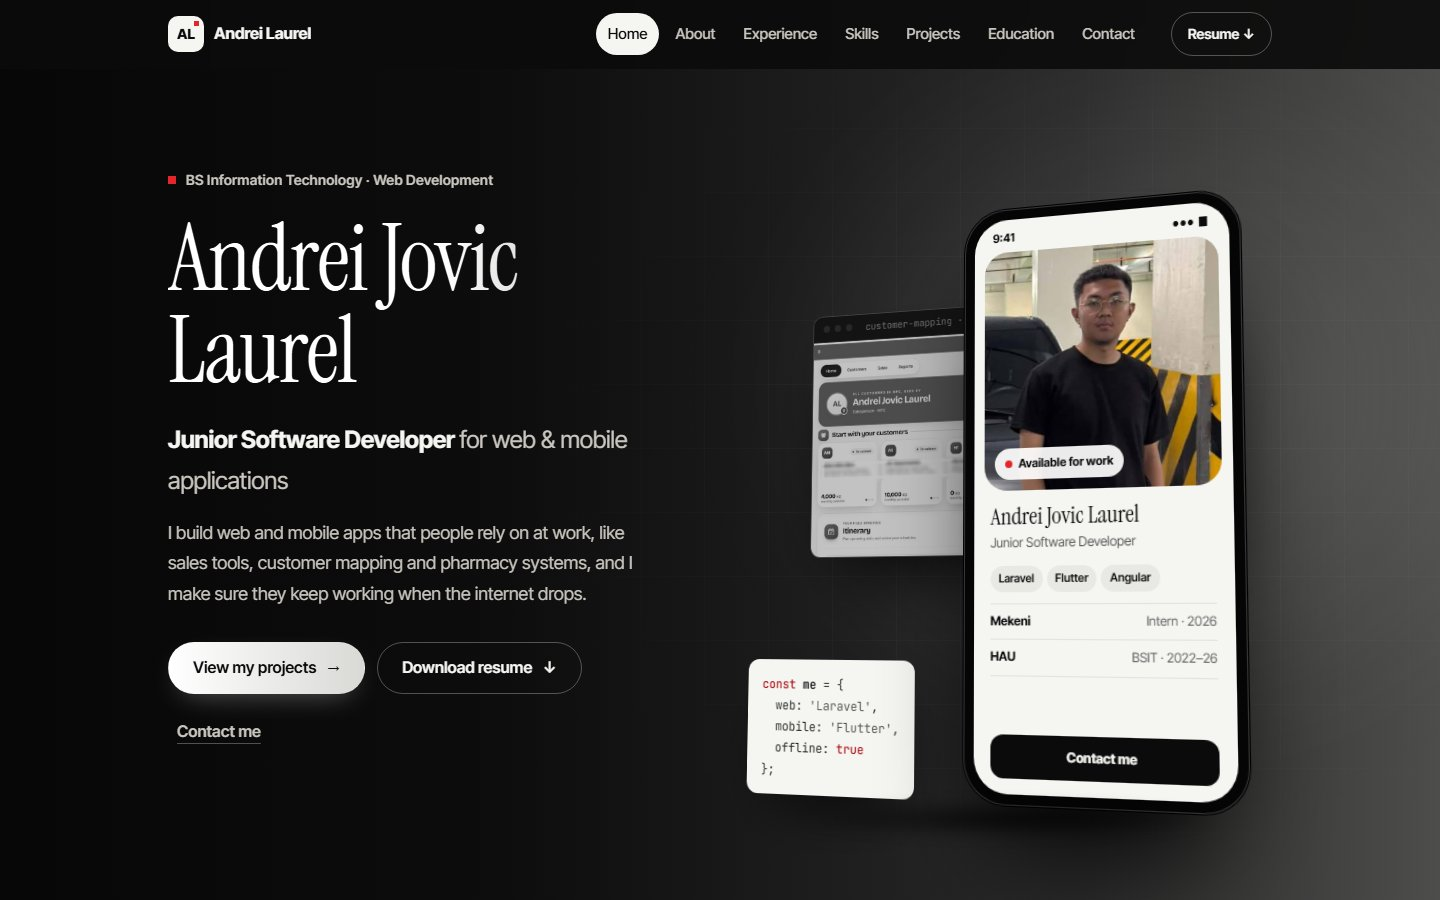
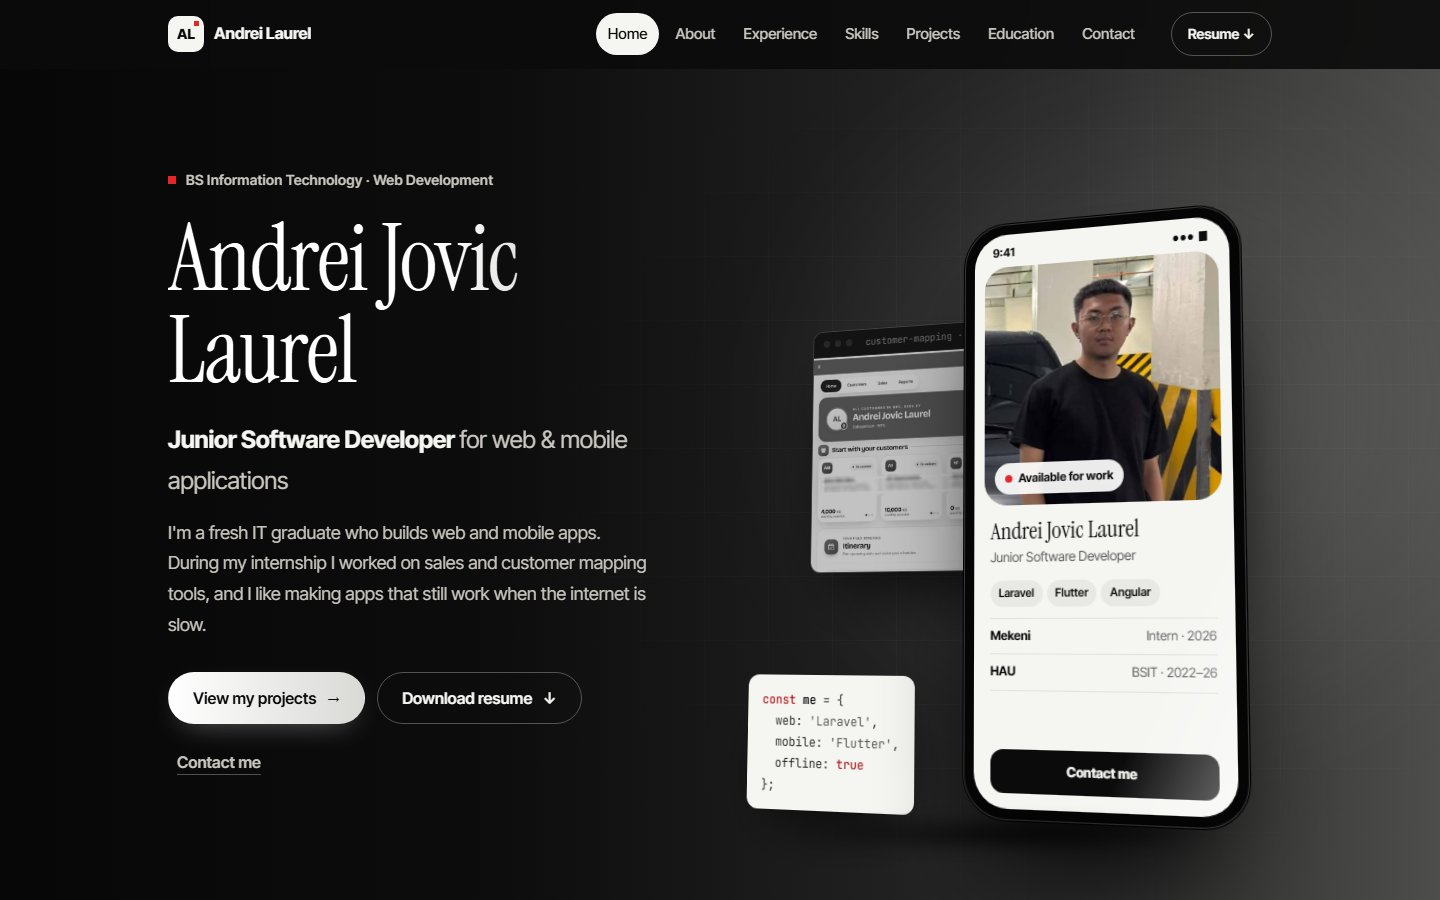
Simplify site and README wording
Rewrite copy in a plain first-person voice without colons or em dashes, and refresh the README screenshot.

Changed region(s): [[0.5625, 0.1867, 0.875, 0.7778], [0.0938, 0.56, 0.4688, 0.8711], [0.5, 0.7156, 0.875, 0.9333]]

diff --git a/index.html b/index.html
@@ -3,13 +3,13 @@
 <head>
 <meta charset="UTF-8" />
 <meta name="viewport" content="width=device-width, initial-scale=1" />
-<title>Andrei Jovic Laurel — Junior Software Developer</title>
+<title>Andrei Jovic Laurel | Junior Software Developer</title>
 <meta name="description" content="Andrei Jovic Laurel is a junior software developer from Pampanga, Philippines, building web and mobile applications with Laravel, Flutter, Angular and Node.js." />
 <meta name="author" content="Andrei Jovic Laurel" />
 <meta name="theme-color" content="#0b0b0b" />
 <link rel="canonical" href="https://laurelportfolio.netlify.app/" />
 <meta property="og:type" content="website" />
-<meta property="og:title" content="Andrei Jovic Laurel — Junior Software Developer" />
+<meta property="og:title" content="Andrei Jovic Laurel | Junior Software Developer" />
 <meta property="og:description" content="Web and mobile application developer. Laravel, Flutter, Angular, Node.js." />
 <meta property="og:url" content="https://laurelportfolio.netlify.app/" />
 <meta property="og:image" content="https://laurelportfolio.netlify.app/images/profile/andrei-laurel-phone.jpg" />
@@ -59,7 +59,7 @@
       <h1 class="hero__name reveal">Andrei Jovic Laurel</h1>
       <p class="hero__role reveal">Junior Software Developer <span>for web &amp; mobile applications</span></p>
       <p class="hero__lead reveal">
-        I build web and mobile apps that people rely on at work, like sales tools, customer mapping and pharmacy systems, and I make sure they keep working when the internet drops.
+        I'm a fresh IT graduate who builds web and mobile apps. During my internship I worked on sales and customer mapping tools, and I like making apps that still work when the internet is slow.
       </p>
       <div class="hero__actions reveal">
         <a href="#projects" class="btn btn--solid">View my projects <span aria-hidden="true">→</span></a>
@@ -128,7 +128,7 @@
     </header>
     <div class="about">
       <p class="about__lead" data-words data-scroll>
-        I'm a junior software developer who likes the practical side of software: features that make a real workflow easier, interfaces people can figure out quickly, and systems that keep working when the connection doesn't.
+        I'm a fresh graduate and junior software developer. I enjoy building features that make daily work easier, screens that are simple to use, and apps that keep working even without a stable connection.
       </p>
       <div class="journey-wrap">
         <p class="journey__label">My journey</p>
@@ -136,14 +136,14 @@
         <li class="journey__step"><span class="journey__dot" aria-hidden="true"></span><span class="journey__when">2022</span><b>Started BSIT</b><span class="journey__sub">Web Development major at Holy Angel University</span></li>
         <li class="journey__step"><span class="journey__dot" aria-hidden="true"></span><span class="journey__when">Jan – Apr 2025</span><b>Owens Bakery</b><span class="journey__sub">Built and maintained a WordPress business site</span></li>
         <li class="journey__step"><span class="journey__dot" aria-hidden="true"></span><span class="journey__when">Nov 2025 – Mar 2026</span><b>MedFind</b><span class="journey__sub">Front-end developer and primary debugger</span></li>
-        <li class="journey__step"><span class="journey__dot" aria-hidden="true"></span><span class="journey__when">Aug – Nov 2026</span><b>Mekeni ICT</b><span class="journey__sub">Software Development Intern: Laravel, AngularJS, Flutter</span></li>
+        <li class="journey__step"><span class="journey__dot" aria-hidden="true"></span><span class="journey__when">Aug – Nov 2026</span><b>Mekeni ICT</b><span class="journey__sub">Software Development Intern using Laravel, AngularJS and Flutter</span></li>
         <li class="journey__step journey__step--now"><span class="journey__dot" aria-hidden="true"></span><span class="journey__when">2026</span><b>BSIT graduate</b><span class="journey__sub">Ready for a junior developer role</span></li>
         </ol>
       </div>
       <dl class="about__points reveal">
-        <div data-tilt="8"><dt>I build</dt><dd>User interfaces, application features and API integrations</dd></div>
-        <div data-tilt="8"><dt>I work</dt><dd>As part of a development team on existing business systems</dd></div>
-        <div data-tilt="8"><dt>I care about</dt><dd>Reliable, usable software: offline support, validation, testing</dd></div>
+        <div data-tilt="8"><dt>I build</dt><dd>User interfaces, app features and API connections</dd></div>
+        <div data-tilt="8"><dt>I work</dt><dd>With a development team on real business systems</dd></div>
+        <div data-tilt="8"><dt>I care about</dt><dd>Apps that are reliable and easy to use, with offline support, validation and testing</dd></div>
       </dl>
       <p class="swipe-hint" aria-hidden="true">Swipe for more →</p>
     </div>
@@ -168,15 +168,15 @@
         <h3 class="xp__role">Software Development Intern</h3>
         <p class="xp__sub">Web &amp; mobile application development</p>
         <p class="xp__intro">
-          Worked with the ICT software development team on Mekeni's internal business applications. The systems are team efforts; below is what I worked on.
+          I worked with the ICT software development team on Mekeni's internal business applications. These systems were built by the whole team, and below are the parts I worked on.
         </p>
         <ol class="xp__list" data-scroll>
           <li><span>Built and improved features in internal business web applications using <strong>Laravel, PHP, JavaScript, AngularJS and Blade</strong>.</span></li>
           <li><span>Implemented responsive user interfaces, form validation, search and filtering, and business workflow improvements.</span></li>
-          <li><span>Initiated the <strong>Mekeni Sales</strong> mobile app in <strong>Flutter and Dart</strong> and built its initial structure, navigation and main dashboard.</span></li>
+          <li><span>Started the <strong>Mekeni Sales</strong> mobile app in <strong>Flutter and Dart</strong> and built its first structure, navigation and main dashboard.</span></li>
           <li><span>Integrated the mobile app with existing APIs and built sales order features with offline saving and automatic sync, plus Employee Portal features.</span></li>
           <li><span>Worked on data processing, including improvements to the STT data import used for sales monitoring.</span></li>
-          <li><span>Took part in functional testing, debugging and verification to improve usability and reliability.</span></li>
+          <li><span>Helped with testing and debugging to make the apps easier to use and more reliable.</span></li>
         </ol>
         <ul class="tags" aria-label="Technologies">
           <li>Laravel</li><li>PHP</li><li>Blade</li><li>AngularJS</li><li>JavaScript</li><li>Flutter</li><li>Dart</li><li>REST APIs</li>
@@ -223,12 +223,12 @@
           <h3 class="story__title reveal">Mekeni Sales</h3>
           <p class="story__kicker reveal">Mobile application · Flutter</p>
           <p class="story__desc reveal">
-            One mobile app for Mekeni staff: a dashboard of company applications, sales order creation and monitoring, and an Employee Portal for personal records. Orders can be prepared on the device and synced to Mekeni's systems.
+            A mobile app for Mekeni staff with a dashboard of company applications, sales order creation and monitoring, and an Employee Portal for personal records. Orders can be prepared on the phone and synced to Mekeni's systems later.
           </p>
         </div>
         <div>
           <dl class="facts reveal">
-            <div><dt>My role</dt><dd>Initiated the app and built its first implementation (structure, navigation, main dashboard) as part of the ICT team, then sales order and Employee Portal features.</dd></div>
+            <div><dt>My role</dt><dd>I started the app and built its first version with the ICT team, including the structure, navigation and main dashboard. I then worked on the sales order and Employee Portal features.</dd></div>
           </dl>
           <ul class="tags reveal"><li>Flutter</li><li>Dart</li><li>REST APIs</li></ul>
         </div>
@@ -238,11 +238,11 @@
         <figure class="phone-col reveal">
           <figcaption><b>Dashboard</b><span>Company apps and modules</span></figcaption>
           <div class="phone" data-gallery="ms-dash">
-            <img src="images/projects/mekeni-sales/app-list.jpg" alt="Mekeni mobile app: application list dashboard" width="600" height="1196" loading="lazy" data-gallery-target />
+            <img src="images/projects/mekeni-sales/app-list.jpg" alt="Mekeni mobile app application list" width="600" height="1196" loading="lazy" data-gallery-target />
           </div>
           <div class="seg" role="tablist" aria-label="Dashboard screens" data-gallery-for="ms-dash">
-            <button role="tab" aria-selected="true" data-src="images/projects/mekeni-sales/app-list.jpg" data-alt="Mekeni mobile app: application list dashboard">App list</button>
-            <button role="tab" aria-selected="false" data-src="images/projects/mekeni-sales/more-apps.jpg" data-alt="All applications, with coming-soon modules">Modules</button>
+            <button role="tab" aria-selected="true" data-src="images/projects/mekeni-sales/app-list.jpg" data-alt="Mekeni mobile app application list">App list</button>
+            <button role="tab" aria-selected="false" data-src="images/projects/mekeni-sales/more-apps.jpg" data-alt="All applications and upcoming modules">Modules</button>
             <button role="tab" aria-selected="false" data-src="images/projects/mekeni-sales/sis-modules.jpg" data-alt="Sales Information System modules">SIS</button>
           </div>
         </figure>
@@ -293,7 +293,7 @@
         </div>
         <div>
           <dl class="facts reveal">
-            <div><dt>My role</dt><dd>Initiated the project and contributed to building it with the team, developing the customer, map, itinerary and sales monitoring features.</dd></div>
+            <div><dt>My role</dt><dd>I started the project and helped the team build it. I worked on the customer, map, itinerary and sales monitoring features.</dd></div>
           </dl>
           <ul class="tags reveal"><li>Laravel</li><li>JavaScript</li><li>AngularJS</li></ul>
         </div>
@@ -337,7 +337,7 @@
           <p class="story__kicker">Mother &amp; Child Pharmacy System</p>
           <p class="card__desc">A pharmacy system with a medicine finder, inventory management, point of sale and pre-orders.</p>
           <dl class="facts">
-            <div><dt>My role</dt><dd>Front-end developer and primary debugger: designed, built, tested and troubleshot the system interface.</dd></div>
+            <div><dt>My role</dt><dd>I was the front-end developer and main debugger. I designed, built, tested and fixed the system interface.</dd></div>
           </dl>
           <ul class="checks">
             <li>Medicine finder, inventory, POS and pre-order modules</li>
@@ -359,7 +359,7 @@
           <p class="story__kicker">Business website · WordPress</p>
           <p class="card__desc">A business website I developed and maintained, from page creation and content updates to responsive design and SEO.</p>
           <dl class="facts">
-            <div><dt>My role</dt><dd>Built and maintained the site, implemented SEO improvements and monitored performance.</dd></div>
+            <div><dt>My role</dt><dd>I built and maintained the site, improved its SEO and tracked how it performed.</dd></div>
           </dl>
           <ul class="checks">
             <li>Responsive pages and ongoing content updates</li>
@@ -416,7 +416,7 @@
     </header>
     <div class="contact__grid">
       <div>
-        <p class="contact__lead reveal">Hiring for a junior developer role, or have a project in mind? Send me a message or reach me directly.</p>
+        <p class="contact__lead reveal">I'm looking for my first full-time role as a junior developer. If you have an opening or a project in mind, send me a message.</p>
         <dl class="contact__list reveal">
           <div><dt>Email</dt><dd><a href="mailto:andrei.laurel.3@gmail.com">andrei.laurel.3@gmail.com</a></dd></div>
           <div><dt>Phone</dt><dd><a href="tel:+639054424644">0905 442 4644</a></dd></div>

diff --git a/README.md b/README.md
@@ -1,43 +1,42 @@
-# Andrei Jovic Laurel — Portfolio
+# Andrei Jovic Laurel | Portfolio
 
-Personal portfolio of **Andrei Jovic Laurel**, a junior software developer building web and mobile applications.
-BS Information Technology graduate (Web Development), Holy Angel University.
+This is my personal portfolio. I'm a fresh BS Information Technology graduate from Holy Angel University, majoring in Web Development, and I build web and mobile applications.
 
-**Live site:** https://laurelportfolio.netlify.app/
+**Live site** https://laurelportfolio.netlify.app/
 
-![Portfolio hero: name, role and a 3D scene of a web dashboard and a phone profile](docs/hero.jpg)
+![Portfolio home section with my name, role and a 3D web and phone scene](docs/hero.jpg)
 
 ## What's inside
 
-| Section | Contents |
+| Section | What you'll find |
 | --- | --- |
-| **Home** | Introduction and a 3D web-and-mobile scene with my profile on a phone |
-| **About** | Background, studies and what I focus on as a developer |
-| **Experience** | Software Development Intern, Mekeni ICT Department (Aug – Nov 2026) |
-| **Skills** | Languages, web, mobile, backend, data and tools |
-| **Projects** | Mekeni Sales (Flutter), Customer Mapping (Laravel), MedFind (Angular), Owens Bakery (WordPress) |
-| **Education** | BS Information Technology and certifications |
-| **Contact** | Contact details and a message form |
+| **Home** | A short introduction and a 3D web and mobile scene with my profile |
+| **About** | My background and my journey from school to my internship |
+| **Experience** | Software Development Intern at the Mekeni ICT Department (Aug to Nov 2026) |
+| **Skills** | The languages, frameworks and tools I have used |
+| **Projects** | Mekeni Sales, Customer Mapping, MedFind and Owens Bakery |
+| **Education** | My degree and certifications |
+| **Contact** | My contact details and a message form |
 
 ## Featured projects
 
-- **Mekeni Sales** — Flutter mobile app with a company app dashboard, sales orders that work offline and sync later, and an Employee Portal. Team project at Mekeni ICT.
-- **Customer Mapping** — Laravel / AngularJS web tool for customer outlets, map pins, visit itineraries and sales monitoring. Team project at Mekeni ICT.
-- **MedFind** — Pharmacy system with medicine finder, inventory, POS and IndexedDB offline sync. Front-end developer and primary debugger. [Live site](https://www.motherandchildpharmacy.com/)
-- **Owens Bakery Shop** — WordPress business website with SEO and analytics.
+- **Mekeni Sales** is a Flutter mobile app with a company app dashboard, sales orders that work offline and sync later, and an Employee Portal. I worked on it with the Mekeni ICT team.
+- **Customer Mapping** is a Laravel and AngularJS web tool for customer outlets, map pins, visit plans and sales monitoring. I worked on it with the Mekeni ICT team.
+- **MedFind** is a pharmacy system with a medicine finder, inventory, POS and IndexedDB offline sync. I was the front-end developer and main debugger. [Visit the live site](https://www.motherandchildpharmacy.com/)
+- **Owens Bakery Shop** is a WordPress business website where I handled the pages, SEO and analytics.
 
 ## Built with
 
-- HTML, CSS and vanilla JavaScript — no framework or build step
-- CSS 3D transforms for the hero scene, card tilt and scroll effects
+- HTML, CSS and plain JavaScript with no framework or build step
+- CSS 3D transforms for the home scene, card tilt and scroll effects
 - [Formspree](https://formspree.io/) for the contact form
-- Google Fonts: Instrument Serif, Inter Tight, JetBrains Mono
+- Google Fonts (Instrument Serif, Inter Tight and JetBrains Mono)
 
-The site is responsive and respects the visitor's *reduce motion* setting.
+The site works on phones, tablets and desktops, and it respects the reduce motion setting.
 
-## Run locally
+## Run it locally
 
-Open `index.html` in a browser, or serve the folder with any static server, for example:
+Open `index.html` in a browser, or serve the folder with any static server.
 
 ```bash
 npx serve .
@@ -48,7 +47,7 @@ npx serve .
 ```
 index.html            Page content
 assets/styles.css     Styles
-assets/main.js        Navigation, 3D effects, screenshot tabs, contact form
+assets/main.js        Navigation, 3D effects, screenshot tabs and contact form
 cv/                   Resume (PDF)
 images/profile/       Profile photos
 images/projects/      Project screenshots, one folder per project
@@ -57,5 +56,5 @@ docs/                 Images used in this README
 
 ## Contact
 
-- Email: andrei.laurel.3@gmail.com
-- GitHub: [@diastimaa](https://github.com/diastimaa)
+- Email at [andrei.laurel.3@gmail.com](mailto:andrei.laurel.3@gmail.com)
+- GitHub at [@diastimaa](https://github.com/diastimaa)
